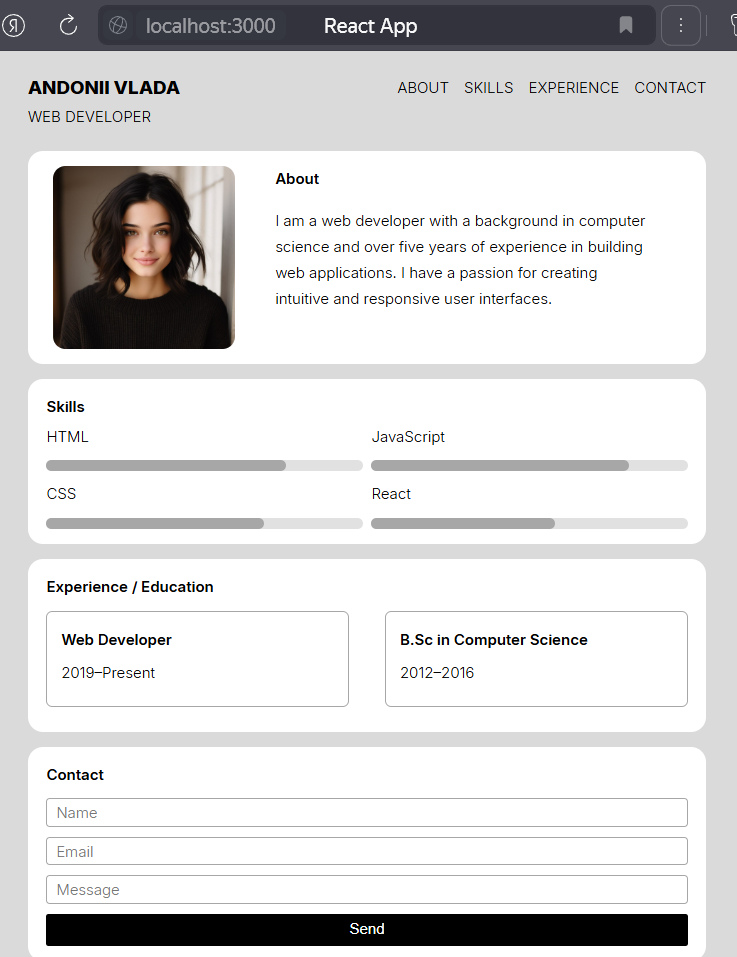
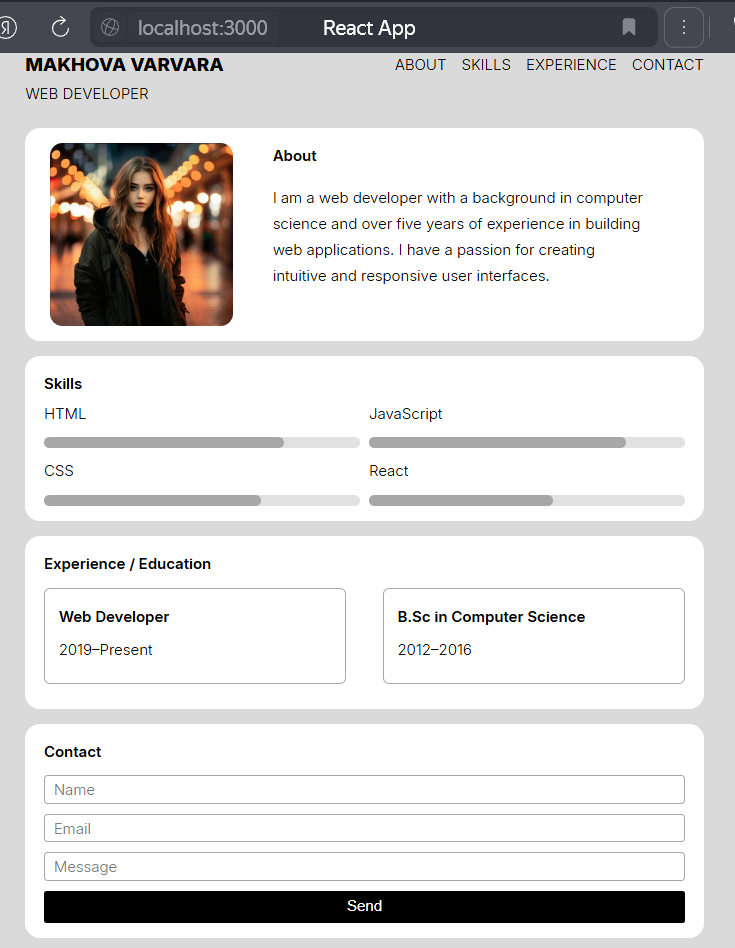
Внесены правки

diff --git a/src/components/Header.js b/src/components/Header.js
@@ -5,7 +5,7 @@ function Header() {
     <header className="user-header">
       <nav className="user-info-container">
         <div className="user-info">
-          <h1 className="user-name">ANDONII VLADA</h1>
+          <h1 className="user-name">MAKHOVA VARVARA</h1>
           <p className="user-post">WEB DEVELOPER</p>
         </div>
         <ul className="navigation-list">

diff --git a/src/components/Footer.js b/src/components/Footer.js
@@ -4,7 +4,7 @@ function Footer() {
   return (
     <footer className="footer-potfolio">
       <p className="copyright">
-        <span className="copyright-letter">©</span> 2025 Andonii Vlada. All rights reserved
+        <span className="copyright-letter">©</span> 2025 Machova Varvara. All rights reserved
       </p>
     </footer>
   );

diff --git a/README.md b/README.md
@@ -1,4 +1,4 @@
-# 🌐 Andonii Vlada — Portfolio Website
+# 🌐 MAKHOVA VARVARA — Portfolio Website
 
 Welcome to my personal portfolio website, built with **React**.  
 This site showcases who I am, what I do, and how to contact me.  
